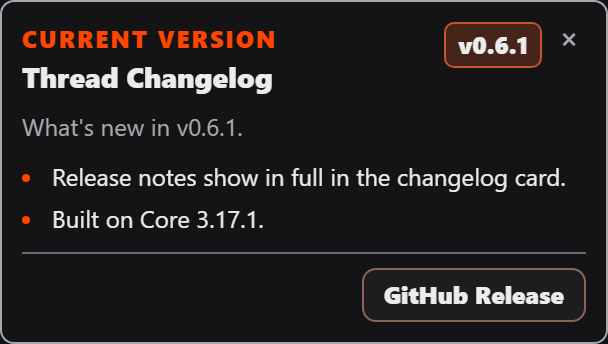
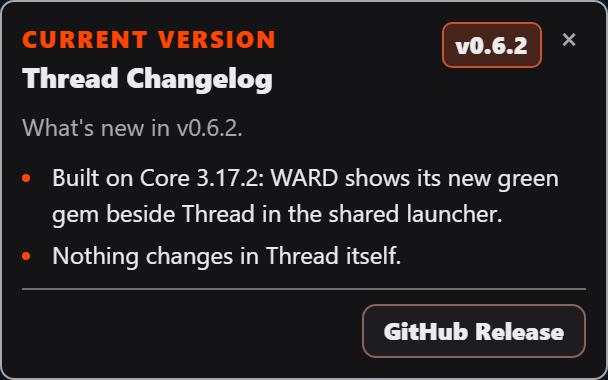
Thread 0.6.2: built on Core 3.17.2

diff --git a/thread.user.js b/thread.user.js
@@ -1,7 +1,7 @@
 // ==UserScript==
 // @name         Thread for Reddit
 // @namespace    expDARE.ExtraPotions.THREAD
-// @version      0.6.1
+// @version      0.6.2
 // @description  Your Reddit, refined. Reading, layout and local personal context for modern Reddit.
 // @author       expDARE
 // @license      PolyForm-Noncommercial-1.0.0
@@ -44,7 +44,7 @@ const CHARCOAL = Object.freeze({
 // Each product's badge colour, tuned to 4.5:1 on the panel in that mode.
 const PRODUCT_ACCENTS = Object.freeze({
   dropper: Object.freeze({light:'#862ff1',dark:'#a869f5'}),
-  ward: Object.freeze({light:'#8e5c05',dark:'#f6a313'}),
+  ward: Object.freeze({light:'#0d7246',dark:'#1fbf7a'}),
   thread: Object.freeze({light:'#bd3300',dark:'#ff4500'}),
 });
 function productPalette(product, mode) {
@@ -2502,7 +2502,7 @@ const ExpLauncherFlyout = (() => {
 // exp-core owns shared UI, launcher, diagnostics, update, and coordination behavior.
 const ExtraPotionsCore = (() => {
   'use strict';
-  const version = '3.17.1';
+  const version = '3.17.2';
   const sourceVersion = version; // Backward-compatible alias for Core's own foundation version.
   const SUPPORT_URL = 'https://ko-fi.com/expdare';
   const protocol = 'exp-core-coordination-v1';
@@ -5324,7 +5324,7 @@ const ExtraPotionsCore = (() => {
   return api;
 })();
 
-const RC={VERSION:"0.6.1",NOTES:["Release notes show in full in the changelog card.","Built on Core 3.17.1."],GEM:"<svg xmlns=\"http://www.w3.org/2000/svg\" viewBox=\"0 0 128 128\" role=\"img\" aria-label=\"Thread orange Asscher gem\"><polygon points=\"35.00,14.00 93.00,14.00 77.34,41.00 50.66,41.00\" fill=\"#ffd0a3\"/><polygon points=\"50.66,41.00 77.34,41.00 64.00,64.00\" fill=\"#ff7636\"/><polygon points=\"93.00,14.00 114.00,35.00 87.00,50.66 77.34,41.00\" fill=\"#ff8d4b\"/><polygon points=\"77.34,41.00 87.00,50.66 64.00,64.00\" fill=\"#ff4500\"/><polygon points=\"114.00,35.00 114.00,93.00 87.00,77.34 87.00,50.66\" fill=\"#ff7636\"/><polygon points=\"87.00,50.66 87.00,77.34 64.00,64.00\" fill=\"#c6350d\"/><polygon points=\"114.00,93.00 93.00,114.00 77.34,87.00 87.00,77.34\" fill=\"#ff4500\"/><polygon points=\"87.00,77.34 77.34,87.00 64.00,64.00\" fill=\"#a82d0d\"/><polygon points=\"93.00,114.00 35.00,114.00 50.66,87.00 77.34,87.00\" fill=\"#c6350d\"/><polygon points=\"77.34,87.00 50.66,87.00 64.00,64.00\" fill=\"#dd4814\"/><polygon points=\"35.00,114.00 14.00,93.00 41.00,77.34 50.66,87.00\" fill=\"#a82d0d\"/><polygon points=\"50.66,87.00 41.00,77.34 64.00,64.00\" fill=\"#ffb073\"/><polygon points=\"14.00,93.00 14.00,35.00 41.00,50.66 41.00,77.34\" fill=\"#dd4814\"/><polygon points=\"41.00,77.34 41.00,50.66 64.00,64.00\" fill=\"#ffd0a3\"/><polygon points=\"14.00,35.00 35.00,14.00 50.66,41.00 41.00,50.66\" fill=\"#ffb073\"/><polygon points=\"41.00,50.66 50.66,41.00 64.00,64.00\" fill=\"#ff8d4b\"/></svg>",CSS:"/* All page rules are companion-owned or opt-in attributes on exact native nodes. */\n[data-rc-owned]{--rc-bg:var(--color-neutral-background,#fff);--rc-surface:var(--color-neutral-background-weak,#f4f6f7);--rc-text:var(--color-neutral-content-strong,#182126);--rc-muted:var(--color-neutral-content,#4e606a);--rc-line:#71828c;--rc-blue:#174c99;color:var(--rc-text);background:var(--rc-bg);font:400 var(--rc-ui-font,12px)/1.5 \"Segoe UI\",system-ui,sans-serif;box-sizing:border-box;letter-spacing:normal;overflow-wrap:anywhere;color-scheme:light dark}\n@media(prefers-color-scheme:dark){[data-rc-owned]{--rc-bg:var(--color-neutral-background,#0e1113);--rc-surface:var(--color-neutral-background-weak,#181c1f);--rc-text:var(--color-neutral-content-strong,#edf1f3);--rc-muted:var(--color-neutral-content,#b4c1c8);--rc-blue:#90baff}}\n[data-rc-owned] *{box-sizing:border-box}\n[data-rc-owned] :is(button,input,select,textarea){font:inherit;max-width:100%;min-width:0;margin:0;color:inherit;background:var(--rc-surface);border:1px solid var(--rc-line);border-radius:6px;padding:5px 8px;min-height:32px;letter-spacing:normal}\n[data-rc-owned] button{cursor:pointer}\n[data-rc-owned] button:disabled{opacity:.6;cursor:default}\n[data-rc-owned] :is(button,a,input,select,textarea,summary):focus-visible,[data-rc-selected]{outline:2px solid var(--rc-blue,#1768b5)!important;outline-offset:2px}\n[data-rc-owned] ::selection{background:#203c61;color:#edf1f3}\n[data-rc-owned] a{color:var(--rc-blue);text-decoration:underline;text-underline-offset:2px}\n.rc-tools{position:relative;z-index:1;display:flex;gap:4px;flex-wrap:wrap;align-items:center;padding:5px 0;border-block:1px solid var(--rc-line);margin:5px 0}\n.rc-tools small{color:var(--rc-muted)}\n[data-rc-treatment=\"dim\"]>:not([data-rc-owned]){opacity:.45}\n[data-rc-treatment=\"blur\"]>:not([data-rc-owned]){filter:blur(6px);pointer-events:none;user-select:none}\n[data-rc-treatment=\"hide\"]>:not([data-rc-owned]){display:none!important}\n[data-rc-collapsed]>:not([data-rc-owned]){display:none!important}\n[data-rc-read] [slot=\"comment\"]{opacity:.78}\n[data-rc-post-read-hidden]{display:none!important}\n[data-rc-post-read]:not([data-rc-post-read-hidden])>[slot=\"title\"]{opacity:.75}\n[data-rc-reading-font] :is([slot=\"title\"],[slot=\"comment\"],[slot=\"text-body\"]){font-family:var(--rc-reading-font)!important}\n[data-rc-reading-line] :is([slot=\"comment\"],[slot=\"text-body\"]){line-height:var(--rc-line-height)!important}\n[data-rc-reading-gap] :is([slot=\"comment\"],[slot=\"text-body\"]) p{margin-block:var(--rc-paragraph-gap)!important}\n[data-rc-search-match] [slot=\"comment\"]{outline:2px solid var(--rc-blue,#174c99);outline-offset:2px}\n.rc-reading-controls{display:grid;gap:8px;margin-block:8px}\n.rc-library-entry{border-bottom:1px solid var(--rc-line);padding-block:12px}\n.rc-library-entry button{margin:4px 4px 0 0}\n.rc-popover :is(input,textarea,select){width:100%}\n.rc-popover[data-rc-owned] :is(input,select,button){min-height:44px}\n.rc-popover.rc-reading-panel{left:50%;translate:-50% 0;z-index:2147483647}\n.rc-reading-panel :is(input,textarea)::placeholder{color:var(--rc-muted);opacity:1}\n[data-rc-density=\"compact\"]{padding-block:8px!important}\n[data-rc-density=\"mini\"]{padding-block:5px!important}\n[data-rc-font]{font-size:var(--rc-content-font,14px)!important}\n[data-rc-font] :is([slot=\"comment\"],[slot=\"text-body\"]){font-size:var(--rc-content-font,14px)!important}\n[data-rc-negative] [slot=\"comment\"]{opacity:.55}\n/* At most four columns, each at least 300px: four on a wide desktop, two on a laptop or tablet, one on a phone. */\n[data-rc-view-container=\"grid\"]{position:relative;display:grid!important;grid-template-columns:repeat(auto-fit,minmax(min(100%,max(280px,calc((100% - 36px) / 4))),1fr));grid-auto-rows:4px;gap:0 12px;align-items:start}\n[data-rc-view-container=\"grid\"]>[data-rc-view-wrapper]{grid-row-end:span var(--rc-grid-span,60)}\n[data-rc-view-container=\"grid\"]>[data-rc-view-aux]{position:absolute!important;inset:auto 0 0}\n[data-rc-view-container=\"grid\"] [data-rc-view=\"grid\"]{margin-block:0!important}\n[data-rc-view-container=\"grid\"]>hr{display:none!important}\n[data-rc-view-wrapper]{min-width:0;max-width:100%}\n[data-rc-view=\"cards\"],[data-rc-view=\"grid\"]{display:block!important;border:1px solid var(--color-neutral-border,#71828c)!important;border-radius:8px!important;padding:14px!important;margin-block:10px!important;min-width:0;max-width:100%;overflow-wrap:anywhere}\n[data-rc-view=\"compact\"]{display:block!important;padding:4px 6px!important;margin-block:0!important;border-bottom:1px solid var(--color-neutral-border,#71828c)!important}\n/* Native compact ads keep their own inner column; the frame adds no second inset. */\nshreddit-ad-post[data-rc-view=\"compact\"]{padding-inline:0!important}\n[data-rc-view=\"compact\"] [slot=\"title\"]{font-size:16px;line-height:1.25;margin-block:2px}\n[data-rc-view=\"compact\"] [slot=\"text-body\"]{line-height:1.4;margin-block:3px;max-height:2.8em;overflow:hidden}[data-rc-view=\"compact\"] [slot=\"text-body\"] .feed-card-text-preview{line-height:inherit!important;-webkit-line-clamp:2!important;line-clamp:2}\n[data-rc-view=\"compact\"] .rc-tools{padding:0;border:0;margin:3px 0}\n[data-rc-compact-flat]{display:flow-root!important}\n.rc-compact-actions{min-width:0;max-width:100%}\n.rc-compact-actions summary{font:inherit;color:inherit;background:var(--rc-surface);border:1px solid var(--rc-line);border-radius:6px;padding:5px 8px;min-height:32px;max-width:100%;letter-spacing:normal;cursor:pointer;width:fit-content}\n.rc-action-items{display:flex;flex-wrap:wrap;gap:4px;padding-block:4px}\n.rc-tools[data-rc-feed-actions]{display:inline-flex;order:-1!important;flex:0 1 auto;align-self:flex-start;vertical-align:middle;max-width:100%;padding:0;border:0;margin:0 4px 0 0}\n[data-rc-header-row]{display:flex;align-items:center;gap:4px;min-width:0;position:relative;z-index:1}\n.rc-tools[data-rc-header-actions],[data-rc-compact-flat]>.rc-tools[data-rc-header-actions]{display:flex;flex:0 0 auto;width:fit-content;order:initial!important;align-self:center;margin:0 0 0 auto!important;padding:0!important;border:0!important;pointer-events:auto}\n.rc-tools[data-rc-header-actions],.rc-tools[data-rc-header-actions]>details{background:transparent!important}\n.rc-tools[data-rc-header-actions]>details{display:block;padding:0!important;margin:0!important;border:0!important;border-radius:0}\n.rc-tools[data-rc-header-actions] summary{display:flex;align-items:center;justify-content:center;list-style:none;width:var(--rc-native-action-size,32px);min-width:var(--rc-native-action-size,32px);height:var(--rc-native-action-size,32px);min-height:0!important;margin:0!important;padding:0;border:0;background:var(--rc-native-action-bg,transparent);color:inherit;border-radius:8px;cursor:pointer}\n.rc-tools[data-rc-header-actions] summary svg{width:18px;height:18px;fill:none;stroke:currentColor;stroke-width:1.6;stroke-linecap:round}\n.rc-sr{position:absolute;width:1px;height:1px;padding:0;margin:-1px;overflow:hidden;clip:rect(0 0 0 0);white-space:nowrap;border:0}\n.rc-tools[data-rc-header-actions] summary::-webkit-details-marker{display:none}\n.rc-tools[data-rc-header-actions] summary:focus-visible{outline-offset:-2px}\n.rc-tools[data-rc-header-actions] .rc-action-items{position:fixed;inset:auto;margin:0;padding:4px;z-index:2147483645;max-height:calc(100dvh - 24px);overflow:auto;box-sizing:border-box;background:var(--rc-bg);color:var(--rc-text);border:1px solid var(--color-neutral-border-weak,var(--rc-line));border-radius:8px;box-shadow:0 4px 8px #0000001a,0 6px 12px #00000040;font:400 var(--rc-ui-font,12px)/1.5 \"Segoe UI\",system-ui,sans-serif}\n.rc-tools[data-rc-header-actions] .rc-action-items:popover-open{display:flex;flex-direction:column;flex-wrap:nowrap;gap:0}\n/* Native menu rows: full-width, left-aligned, tinted only on hover or press. */\n.rc-tools[data-rc-header-actions] .rc-action-items :is(button,a){display:flex;align-items:center;justify-content:flex-start;width:100%;min-height:40px;padding:8px 12px;border:0;border-radius:5px;background:transparent;color:inherit;text-align:start;text-decoration:none;font-size:14px;line-height:20px}\n.rc-tools[data-rc-header-actions] .rc-action-items :is(button,a):is(:hover,:active){background:var(--color-neutral-background-hover,var(--rc-surface))}\n.rc-tools[data-rc-header-actions] .rc-action-items small{display:block;padding:6px 12px 2px;font-size:12px}\n[data-rc-view=\"compact\"][data-rc-compact-preview]:not([data-rc-compact-media-open])>[slot=\"post-media-container\"]:not([hidden]){display:none!important}\n/* Reddit's overflow menu opens from the credit bar; keep it above the preview and footer icon, which sit above the card link. */\n[data-rc-view=\"compact\"]>[slot=\"credit-bar\"]{position:relative;z-index:2}\n.rc-compact-preview{position:relative;z-index:1;display:block;width:104px;height:78px;padding:0;overflow:hidden;cursor:pointer;border:1px solid var(--rc-line);border-radius:6px}\n.rc-compact-preview img{width:100%;height:100%;object-fit:cover}\n.rc-compact-preview>span{display:none}\n[data-rc-compact-flat]>.rc-compact-preview,[data-rc-compact-flat]>[slot=\"thumbnail\"]{float:left;margin:0 8px 4px 0}\n[data-rc-compact-flat]:where(:not([data-rc-treatment=\"hide\"]):not([data-rc-collapsed]))>[slot=\"thumbnail\"]:not([hidden]):not(.hidden){display:block!important;width:104px;max-height:78px;overflow:hidden}\n[data-rc-compact-flat][data-rc-compact-has-thumb]>:is([slot=\"credit-bar\"],[slot=\"title\"],[slot=\"text-body\"]){margin-left:112px!important}\n[data-rc-compact-flat]>[slot=\"credit-bar\"]{font-size:12px;line-height:16px;margin-block:0}\n[data-rc-compact-flat]>[slot=\"title\"]{display:-webkit-box;-webkit-box-orient:vertical;-webkit-line-clamp:2;overflow:hidden}\n[data-rc-compact-flat]>:is([slot=\"post-flair\"],[slot=\"awards\"]){display:none}\n[data-rc-compact-flat]>.rc-tools{display:inline-flex;vertical-align:middle}\n[data-rc-compact-native-layout]>[slot=\"thumbnail\"]>:first-child,[data-rc-compact-native-layout]>[slot=\"thumbnail\"] [slot=\"thumbnail\"]{width:80px!important;max-width:80px!important;height:60px!important;max-height:60px!important;overflow:hidden}\n[data-rc-compact-native-layout]>[slot=\"thumbnail\"] :is(img,video){width:100%;height:100%;object-fit:cover}\n[data-rc-compact-flat]>[slot=\"post-media-container\"]{clear:both}\n@media(pointer:coarse){.rc-compact-actions summary,[data-rc-view=\"compact\"] .rc-tools button{min-height:44px}}\n@media(pointer:coarse){.rc-tools[data-rc-feed-actions] button{min-height:44px}}\n/* Keep native thumbnails compact; only full media owns uncapped height. Native aspect frames already letterbox the whole image. */\n[data-rc-view]:where(:not([data-rc-treatment=\"hide\"]):not([data-rc-collapsed])) [slot=\"post-media-container\"]:not([hidden]):not(.hidden):not(:has(gallery-carousel,faceplate-carousel)):where(:not(:has([data-aspect-ratio-container]))){display:block!important;width:100%!important;max-width:100%!important;height:auto!important;max-height:none!important;overflow:visible}\n[data-rc-view] [slot=\"expando-content\"]{width:100%;max-width:100%;max-height:none;overflow:visible}\n[data-rc-view] :is([slot=\"post-media-container\"],[slot=\"expando-content\"]) :is(img,video):not(:is(gallery-carousel,faceplate-carousel) *):where(:not([data-aspect-ratio-container] *)){display:block;max-width:100%!important;max-height:none!important;height:auto!important;object-fit:contain}\n[data-rc-view] :is([slot=\"post-media-container\"],[slot=\"expando-content\"]) :is(iframe,object,embed){max-width:100%!important;box-sizing:border-box}\n[data-rc-view] [data-rc-owned]{order:10}\n[data-rc-select]{user-select:text!important}\n[data-rc-expand] [slot=\"text-body\"]{max-height:none!important;-webkit-line-clamp:unset!important}\n[data-rc-hover]:hover{background:var(--color-neutral-background-hover,#e8edef)}\n[data-rc-hide-author] [slot=\"authorName\"],[data-rc-hide-flair] [slot=\"post-flair\"],[data-rc-hide-awards] [slot=\"awards\"],[data-rc-hide-save] [data-testid=\"save-button\"],[data-rc-profile-simple] :is([data-testid=\"profile-trophy-case\"],[data-testid=\"profile-achievements\"]){display:none!important}\n[data-rc-awards-collapsed] [slot=\"awards\"]{max-height:24px;overflow:auto}\n[data-rc-sidebar-hidden],[data-rc-secondary-hidden]{display:none!important}\n[data-rc-layout]{width:min(100%,var(--rc-width,800px))!important;max-width:100%!important;margin-inline:auto!important;translate:var(--rc-offset,0px) 0}\n.rc-pagebar{display:flex;align-items:center;gap:5px;flex-wrap:wrap;padding:4px 0;margin:4px 0;position:sticky;top:var(--rc-sticky-top,0px);z-index:10;border-bottom:1px solid var(--rc-line)}\n.rc-pagebar[data-rc-page-type=\"feed\"]{position:static;z-index:auto}\n.rc-pagebar[data-rc-page-type=\"comments\"]{flex-wrap:nowrap;max-width:100%;overflow-x:auto;scrollbar-width:thin;scroll-padding-inline:4px}\n.rc-pagebar[data-rc-page-type=\"comments\"]>*{flex:0 0 auto;margin:0}\n.rc-pagebar:empty{display:none}\n.rc-pagebar [data-rc-icon]{display:inline-flex;align-items:center;justify-content:center;width:32px;padding:0!important}\n.rc-pagebar .rc-icon{width:16px;height:16px;fill:none;stroke:currentColor;stroke-width:2;stroke-linecap:round;stroke-linejoin:round}\n.rc-pagebar [data-rc-icon=\"up\"] .rc-icon{rotate:180deg}\n.rc-pagebar[data-rc-inline][data-rc-page-type=\"comments\"]{flex:0 1 auto;flex-wrap:wrap;overflow:visible}\n.rc-pagebar [data-rc-bar-menu]{margin:0!important}\n.rc-pagebar [data-rc-bar-menu] summary{width:32px;min-width:32px;height:32px}\n/* Inside Reddit's sort row the controls read as native plain buttons: no strip, no box, same 32px rhythm. */\n[data-rc-sort-row]{display:flex;flex-wrap:wrap;align-items:center;column-gap:4px}\n.rc-pagebar[data-rc-inline]{flex:1 1 auto;position:static;z-index:auto;margin:0;padding:0;border:0;gap:2px;background:transparent;color:var(--color-neutral-content-weak,var(--rc-muted));font-size:12px;font-weight:600}\n.rc-pagebar[data-rc-inline] :is(button,select,a){height:32px;min-height:0;margin:0;padding:0 10px;border:0;border-radius:8px;background:transparent;color:inherit;font-weight:inherit;line-height:32px;text-decoration:none}\n.rc-pagebar[data-rc-inline] a{display:inline-block}\n.rc-pagebar[data-rc-inline] :is(button,select,a):hover{background:var(--color-neutral-background-hover,var(--rc-surface))}\n.rc-pagebar label{display:flex;align-items:center;gap:6px}\n.rc-back-top{position:fixed;right:16px;bottom:80px;z-index:20;border:1px solid var(--rc-line);border-radius:6px;padding:7px 10px;min-height:34px;cursor:pointer}\n.rc-back-top[hidden]{display:none}\n/* Right rail handle: mirrors Reddit's left navigation collapse control; the arrow points the way the rail will move. */\n[data-rc-fill]{grid-template-columns:minmax(0,1fr)!important;box-sizing:border-box!important;padding-inline-end:40px!important}\n.rc-rail-handle{position:fixed;z-index:20;display:grid;place-items:center;width:32px;height:32px;padding:0;color:var(--rc-text);background:var(--rc-bg);border:1px solid var(--color-neutral-border-weak,var(--rc-line));border-radius:8px;overflow:visible;cursor:pointer;touch-action:manipulation}\n.rc-rail-handle::before{content:\"\";position:absolute;inset:-6px}\n/* The rail edge line, like the line under Reddit's left navigation button: from the header down, broken where the handle sits. */\n.rc-rail-handle::after{content:\"\";position:absolute;z-index:-1;top:-17px;left:calc(50% - .5px);width:1px;height:100vh;pointer-events:none;background:linear-gradient(var(--color-neutral-border,var(--rc-line)) 0 16px,transparent 16px 48px,var(--color-neutral-border,var(--rc-line)) 48px)}\n.rc-rail-handle:hover{background:var(--rc-surface)}\n.rc-rail-handle:focus-visible{outline:2px solid var(--rc-blue);outline-offset:2px}\n.rc-rail-handle .rc-icon{width:16px;height:16px;fill:none;stroke:currentColor;stroke-width:2;stroke-linecap:round;stroke-linejoin:round;rotate:90deg}\n.rc-rail-handle[data-rc-open=\"1\"] .rc-icon{rotate:-90deg}\n.rc-popover{position:fixed;z-index:2147483646;inset:12px auto auto 12px;max-width:calc(100vw - 24px);width:350px;max-height:calc(100dvh - 24px);overflow:auto;padding:14px;border:1px solid var(--color-neutral-border-weak,var(--rc-line));border-radius:8px;box-shadow:0 4px 8px #0000001a,0 6px 12px #00000040}\n.rc-popover[data-rc-anchored]{position:absolute;inset:auto;translate:none;max-height:none}\n.rc-popover label{display:grid;gap:4px;margin-block:8px}\n.rc-popover h2{font-size:14px;font-weight:600;margin:0 0 8px;padding-inline-end:64px;min-height:24px}\n.rc-popover>h2+button{position:absolute;top:8px;right:8px;height:32px;min-height:32px!important;padding:0 10px;border:0;border-radius:8px;background:transparent;color:inherit;font-size:12px;font-weight:600}\n.rc-popover>h2+button:hover{background:var(--color-neutral-background-hover,var(--rc-surface))}\n.rc-popover p{margin:8px 0;white-space:pre-wrap}\n.rc-media{position:fixed;inset:0;padding:12px;z-index:2147483647;display:flex;align-items:center;justify-content:center;background:#000c;color:#edf1f3}\n.rc-media-box{max-width:calc(100vw - 24px);max-height:calc(100dvh - 24px);overflow:auto;background:#181c1f;border-radius:8px;padding:12px}\n.rc-media-stage{overflow:auto;max-height:calc(100dvh - 140px);max-width:100%}\n.rc-media img{display:block;max-width:100%;max-height:calc(100dvh - 150px);object-fit:contain}\n.rc-media-toolbar{display:flex;flex-wrap:wrap;gap:5px;margin-bottom:8px}\n.rc-media button{background:#20272b;color:#edf1f3}\n.rc-error{color:#a51e22}\n@media(prefers-color-scheme:dark){.rc-error{color:#ffaaa6}}\n@media(max-width:600px){[data-rc-layout]{translate:0 0}.rc-pagebar{margin:4px 0}.rc-tools{gap:3px}}\n@media(pointer:coarse){[data-rc-owned] :is(button,input,select){min-height:36px}.rc-tools[data-rc-header-actions] .rc-action-items :is(button,a){min-height:44px}}\n/* Subtle motion: one short exponential ease-out per change, interruptible, and absent under reduced motion. */\n@media(prefers-reduced-motion:no-preference){\n.rc-rail-handle .rc-icon{transition:rotate .18s cubic-bezier(.16,1,.3,1)}\n.rc-tools[data-rc-header-actions] .rc-action-items{transition:opacity .14s cubic-bezier(.16,1,.3,1),translate .14s cubic-bezier(.16,1,.3,1)}\n@starting-style{.rc-tools[data-rc-header-actions] .rc-action-items:popover-open{opacity:0;translate:0 -4px}}\n[data-rc-compact-media-open]>[slot=\"post-media-container\"]{transition:opacity .18s cubic-bezier(.16,1,.3,1),translate .18s cubic-bezier(.16,1,.3,1)}\n@starting-style{[data-rc-compact-media-open]>[slot=\"post-media-container\"]{opacity:0;translate:0 -6px}}\n}\n@media(prefers-reduced-motion:reduce){[data-rc-owned],[data-rc-owned] *{scroll-behavior:auto!important;transition:none!important;animation:none!important}}\n\n.rc-pagebar[data-rc-inline][data-rc-page-type=\"comments\"] select{field-sizing:content}\n\n[data-rc-new-body]{box-shadow:inset 2px 0 0 var(--rc-blue,#1768b5);padding-inline-start:8px}\n.rc-person{display:inline-block;flex:0 0 auto;margin-inline-start:6px;padding:0 6px;border-radius:4px;background:var(--color-neutral-background-hover,var(--rc-surface));color:var(--color-neutral-content-weak,inherit);font-size:12px;font-weight:400;line-height:18px;white-space:nowrap;max-width:24ch;overflow:hidden;text-overflow:ellipsis;vertical-align:middle}\n.rc-float-nav{position:fixed;right:16px;bottom:122px;z-index:20;display:flex;flex-direction:column;gap:6px}\n.rc-float-nav[data-rc-lone]{bottom:80px}\n.rc-float-nav[hidden]{display:none}\n.rc-float-nav button{display:flex;align-items:center;justify-content:center;width:40px;height:34px;padding:0;border:1px solid var(--rc-line);border-radius:6px;background:var(--rc-bg);color:var(--rc-text);cursor:pointer}\n.rc-float-nav .rc-icon{width:16px;height:16px;fill:none;stroke:currentColor;stroke-width:2;stroke-linecap:round;stroke-linejoin:round}\n.rc-float-nav [data-rc-icon=\"up\"] .rc-icon{rotate:180deg}\n.rc-media video{display:block;max-width:100%;max-height:calc(100dvh - 150px);background:#000}\n.rc-media iframe{display:block;border:0;width:min(960px,calc(100vw - 48px));aspect-ratio:16/9;max-height:calc(100dvh - 150px);background:#000}\n.rc-media button[hidden]{display:none}\n.rc-media button:disabled{opacity:.45}\n"};
+const RC={VERSION:"0.6.2",NOTES:["Built on Core 3.17.2: WARD shows its new green gem beside Thread in the shared launcher.","Nothing changes in Thread itself."],GEM:"<svg xmlns=\"http://www.w3.org/2000/svg\" viewBox=\"0 0 128 128\" role=\"img\" aria-label=\"Thread orange Asscher gem\"><polygon points=\"35.00,14.00 93.00,14.00 77.34,41.00 50.66,41.00\" fill=\"#ffd0a3\"/><polygon points=\"50.66,41.00 77.34,41.00 64.00,64.00\" fill=\"#ff7636\"/><polygon points=\"93.00,14.00 114.00,35.00 87.00,50.66 77.34,41.00\" fill=\"#ff8d4b\"/><polygon points=\"77.34,41.00 87.00,50.66 64.00,64.00\" fill=\"#ff4500\"/><polygon points=\"114.00,35.00 114.00,93.00 87.00,77.34 87.00,50.66\" fill=\"#ff7636\"/><polygon points=\"87.00,50.66 87.00,77.34 64.00,64.00\" fill=\"#c6350d\"/><polygon points=\"114.00,93.00 93.00,114.00 77.34,87.00 87.00,77.34\" fill=\"#ff4500\"/><polygon points=\"87.00,77.34 77.34,87.00 64.00,64.00\" fill=\"#a82d0d\"/><polygon points=\"93.00,114.00 35.00,114.00 50.66,87.00 77.34,87.00\" fill=\"#c6350d\"/><polygon points=\"77.34,87.00 50.66,87.00 64.00,64.00\" fill=\"#dd4814\"/><polygon points=\"35.00,114.00 14.00,93.00 41.00,77.34 50.66,87.00\" fill=\"#a82d0d\"/><polygon points=\"50.66,87.00 41.00,77.34 64.00,64.00\" fill=\"#ffb073\"/><polygon points=\"14.00,93.00 14.00,35.00 41.00,50.66 41.00,77.34\" fill=\"#dd4814\"/><polygon points=\"41.00,77.34 41.00,50.66 64.00,64.00\" fill=\"#ffd0a3\"/><polygon points=\"14.00,35.00 35.00,14.00 50.66,41.00 41.00,50.66\" fill=\"#ffb073\"/><polygon points=\"41.00,50.66 50.66,41.00 64.00,64.00\" fill=\"#ff8d4b\"/></svg>",CSS:"/* All page rules are companion-owned or opt-in attributes on exact native nodes. */\n[data-rc-owned]{--rc-bg:var(--color-neutral-background,#fff);--rc-surface:var(--color-neutral-background-weak,#f4f6f7);--rc-text:var(--color-neutral-content-strong,#182126);--rc-muted:var(--color-neutral-content,#4e606a);--rc-line:#71828c;--rc-blue:#174c99;color:var(--rc-text);background:var(--rc-bg);font:400 var(--rc-ui-font,12px)/1.5 \"Segoe UI\",system-ui,sans-serif;box-sizing:border-box;letter-spacing:normal;overflow-wrap:anywhere;color-scheme:light dark}\n@media(prefers-color-scheme:dark){[data-rc-owned]{--rc-bg:var(--color-neutral-background,#0e1113);--rc-surface:var(--color-neutral-background-weak,#181c1f);--rc-text:var(--color-neutral-content-strong,#edf1f3);--rc-muted:var(--color-neutral-content,#b4c1c8);--rc-blue:#90baff}}\n[data-rc-owned] *{box-sizing:border-box}\n[data-rc-owned] :is(button,input,select,textarea){font:inherit;max-width:100%;min-width:0;margin:0;color:inherit;background:var(--rc-surface);border:1px solid var(--rc-line);border-radius:6px;padding:5px 8px;min-height:32px;letter-spacing:normal}\n[data-rc-owned] button{cursor:pointer}\n[data-rc-owned] button:disabled{opacity:.6;cursor:default}\n[data-rc-owned] :is(button,a,input,select,textarea,summary):focus-visible,[data-rc-selected]{outline:2px solid var(--rc-blue,#1768b5)!important;outline-offset:2px}\n[data-rc-owned] ::selection{background:#203c61;color:#edf1f3}\n[data-rc-owned] a{color:var(--rc-blue);text-decoration:underline;text-underline-offset:2px}\n.rc-tools{position:relative;z-index:1;display:flex;gap:4px;flex-wrap:wrap;align-items:center;padding:5px 0;border-block:1px solid var(--rc-line);margin:5px 0}\n.rc-tools small{color:var(--rc-muted)}\n[data-rc-treatment=\"dim\"]>:not([data-rc-owned]){opacity:.45}\n[data-rc-treatment=\"blur\"]>:not([data-rc-owned]){filter:blur(6px);pointer-events:none;user-select:none}\n[data-rc-treatment=\"hide\"]>:not([data-rc-owned]){display:none!important}\n[data-rc-collapsed]>:not([data-rc-owned]){display:none!important}\n[data-rc-read] [slot=\"comment\"]{opacity:.78}\n[data-rc-post-read-hidden]{display:none!important}\n[data-rc-post-read]:not([data-rc-post-read-hidden])>[slot=\"title\"]{opacity:.75}\n[data-rc-reading-font] :is([slot=\"title\"],[slot=\"comment\"],[slot=\"text-body\"]){font-family:var(--rc-reading-font)!important}\n[data-rc-reading-line] :is([slot=\"comment\"],[slot=\"text-body\"]){line-height:var(--rc-line-height)!important}\n[data-rc-reading-gap] :is([slot=\"comment\"],[slot=\"text-body\"]) p{margin-block:var(--rc-paragraph-gap)!important}\n[data-rc-search-match] [slot=\"comment\"]{outline:2px solid var(--rc-blue,#174c99);outline-offset:2px}\n.rc-reading-controls{display:grid;gap:8px;margin-block:8px}\n.rc-library-entry{border-bottom:1px solid var(--rc-line);padding-block:12px}\n.rc-library-entry button{margin:4px 4px 0 0}\n.rc-popover :is(input,textarea,select){width:100%}\n.rc-popover[data-rc-owned] :is(input,select,button){min-height:44px}\n.rc-popover.rc-reading-panel{left:50%;translate:-50% 0;z-index:2147483647}\n.rc-reading-panel :is(input,textarea)::placeholder{color:var(--rc-muted);opacity:1}\n[data-rc-density=\"compact\"]{padding-block:8px!important}\n[data-rc-density=\"mini\"]{padding-block:5px!important}\n[data-rc-font]{font-size:var(--rc-content-font,14px)!important}\n[data-rc-font] :is([slot=\"comment\"],[slot=\"text-body\"]){font-size:var(--rc-content-font,14px)!important}\n[data-rc-negative] [slot=\"comment\"]{opacity:.55}\n/* At most four columns, each at least 300px: four on a wide desktop, two on a laptop or tablet, one on a phone. */\n[data-rc-view-container=\"grid\"]{position:relative;display:grid!important;grid-template-columns:repeat(auto-fit,minmax(min(100%,max(280px,calc((100% - 36px) / 4))),1fr));grid-auto-rows:4px;gap:0 12px;align-items:start}\n[data-rc-view-container=\"grid\"]>[data-rc-view-wrapper]{grid-row-end:span var(--rc-grid-span,60)}\n[data-rc-view-container=\"grid\"]>[data-rc-view-aux]{position:absolute!important;inset:auto 0 0}\n[data-rc-view-container=\"grid\"] [data-rc-view=\"grid\"]{margin-block:0!important}\n[data-rc-view-container=\"grid\"]>hr{display:none!important}\n[data-rc-view-wrapper]{min-width:0;max-width:100%}\n[data-rc-view=\"cards\"],[data-rc-view=\"grid\"]{display:block!important;border:1px solid var(--color-neutral-border,#71828c)!important;border-radius:8px!important;padding:14px!important;margin-block:10px!important;min-width:0;max-width:100%;overflow-wrap:anywhere}\n[data-rc-view=\"compact\"]{display:block!important;padding:4px 6px!important;margin-block:0!important;border-bottom:1px solid var(--color-neutral-border,#71828c)!important}\n/* Native compact ads keep their own inner column; the frame adds no second inset. */\nshreddit-ad-post[data-rc-view=\"compact\"]{padding-inline:0!important}\n[data-rc-view=\"compact\"] [slot=\"title\"]{font-size:16px;line-height:1.25;margin-block:2px}\n[data-rc-view=\"compact\"] [slot=\"text-body\"]{line-height:1.4;margin-block:3px;max-height:2.8em;overflow:hidden}[data-rc-view=\"compact\"] [slot=\"text-body\"] .feed-card-text-preview{line-height:inherit!important;-webkit-line-clamp:2!important;line-clamp:2}\n[data-rc-view=\"compact\"] .rc-tools{padding:0;border:0;margin:3px 0}\n[data-rc-compact-flat]{display:flow-root!important}\n.rc-compact-actions{min-width:0;max-width:100%}\n.rc-compact-actions summary{font:inherit;color:inherit;background:var(--rc-surface);border:1px solid var(--rc-line);border-radius:6px;padding:5px 8px;min-height:32px;max-width:100%;letter-spacing:normal;cursor:pointer;width:fit-content}\n.rc-action-items{display:flex;flex-wrap:wrap;gap:4px;padding-block:4px}\n.rc-tools[data-rc-feed-actions]{display:inline-flex;order:-1!important;flex:0 1 auto;align-self:flex-start;vertical-align:middle;max-width:100%;padding:0;border:0;margin:0 4px 0 0}\n[data-rc-header-row]{display:flex;align-items:center;gap:4px;min-width:0;position:relative;z-index:1}\n.rc-tools[data-rc-header-actions],[data-rc-compact-flat]>.rc-tools[data-rc-header-actions]{display:flex;flex:0 0 auto;width:fit-content;order:initial!important;align-self:center;margin:0 0 0 auto!important;padding:0!important;border:0!important;pointer-events:auto}\n.rc-tools[data-rc-header-actions],.rc-tools[data-rc-header-actions]>details{background:transparent!important}\n.rc-tools[data-rc-header-actions]>details{display:block;padding:0!important;margin:0!important;border:0!important;border-radius:0}\n.rc-tools[data-rc-header-actions] summary{display:flex;align-items:center;justify-content:center;list-style:none;width:var(--rc-native-action-size,32px);min-width:var(--rc-native-action-size,32px);height:var(--rc-native-action-size,32px);min-height:0!important;margin:0!important;padding:0;border:0;background:var(--rc-native-action-bg,transparent);color:inherit;border-radius:8px;cursor:pointer}\n.rc-tools[data-rc-header-actions] summary svg{width:18px;height:18px;fill:none;stroke:currentColor;stroke-width:1.6;stroke-linecap:round}\n.rc-sr{position:absolute;width:1px;height:1px;padding:0;margin:-1px;overflow:hidden;clip:rect(0 0 0 0);white-space:nowrap;border:0}\n.rc-tools[data-rc-header-actions] summary::-webkit-details-marker{display:none}\n.rc-tools[data-rc-header-actions] summary:focus-visible{outline-offset:-2px}\n.rc-tools[data-rc-header-actions] .rc-action-items{position:fixed;inset:auto;margin:0;padding:4px;z-index:2147483645;max-height:calc(100dvh - 24px);overflow:auto;box-sizing:border-box;background:var(--rc-bg);color:var(--rc-text);border:1px solid var(--color-neutral-border-weak,var(--rc-line));border-radius:8px;box-shadow:0 4px 8px #0000001a,0 6px 12px #00000040;font:400 var(--rc-ui-font,12px)/1.5 \"Segoe UI\",system-ui,sans-serif}\n.rc-tools[data-rc-header-actions] .rc-action-items:popover-open{display:flex;flex-direction:column;flex-wrap:nowrap;gap:0}\n/* Native menu rows: full-width, left-aligned, tinted only on hover or press. */\n.rc-tools[data-rc-header-actions] .rc-action-items :is(button,a){display:flex;align-items:center;justify-content:flex-start;width:100%;min-height:40px;padding:8px 12px;border:0;border-radius:5px;background:transparent;color:inherit;text-align:start;text-decoration:none;font-size:14px;line-height:20px}\n.rc-tools[data-rc-header-actions] .rc-action-items :is(button,a):is(:hover,:active){background:var(--color-neutral-background-hover,var(--rc-surface))}\n.rc-tools[data-rc-header-actions] .rc-action-items small{display:block;padding:6px 12px 2px;font-size:12px}\n[data-rc-view=\"compact\"][data-rc-compact-preview]:not([data-rc-compact-media-open])>[slot=\"post-media-container\"]:not([hidden]){display:none!important}\n/* Reddit's overflow menu opens from the credit bar; keep it above the preview and footer icon, which sit above the card link. */\n[data-rc-view=\"compact\"]>[slot=\"credit-bar\"]{position:relative;z-index:2}\n.rc-compact-preview{position:relative;z-index:1;display:block;width:104px;height:78px;padding:0;overflow:hidden;cursor:pointer;border:1px solid var(--rc-line);border-radius:6px}\n.rc-compact-preview img{width:100%;height:100%;object-fit:cover}\n.rc-compact-preview>span{display:none}\n[data-rc-compact-flat]>.rc-compact-preview,[data-rc-compact-flat]>[slot=\"thumbnail\"]{float:left;margin:0 8px 4px 0}\n[data-rc-compact-flat]:where(:not([data-rc-treatment=\"hide\"]):not([data-rc-collapsed]))>[slot=\"thumbnail\"]:not([hidden]):not(.hidden){display:block!important;width:104px;max-height:78px;overflow:hidden}\n[data-rc-compact-flat][data-rc-compact-has-thumb]>:is([slot=\"credit-bar\"],[slot=\"title\"],[slot=\"text-body\"]){margin-left:112px!important}\n[data-rc-compact-flat]>[slot=\"credit-bar\"]{font-size:12px;line-height:16px;margin-block:0}\n[data-rc-compact-flat]>[slot=\"title\"]{display:-webkit-box;-webkit-box-orient:vertical;-webkit-line-clamp:2;overflow:hidden}\n[data-rc-compact-flat]>:is([slot=\"post-flair\"],[slot=\"awards\"]){display:none}\n[data-rc-compact-flat]>.rc-tools{display:inline-flex;vertical-align:middle}\n[data-rc-compact-native-layout]>[slot=\"thumbnail\"]>:first-child,[data-rc-compact-native-layout]>[slot=\"thumbnail\"] [slot=\"thumbnail\"]{width:80px!important;max-width:80px!important;height:60px!important;max-height:60px!important;overflow:hidden}\n[data-rc-compact-native-layout]>[slot=\"thumbnail\"] :is(img,video){width:100%;height:100%;object-fit:cover}\n[data-rc-compact-flat]>[slot=\"post-media-container\"]{clear:both}\n@media(pointer:coarse){.rc-compact-actions summary,[data-rc-view=\"compact\"] .rc-tools button{min-height:44px}}\n@media(pointer:coarse){.rc-tools[data-rc-feed-actions] button{min-height:44px}}\n/* Keep native thumbnails compact; only full media owns uncapped height. Native aspect frames already letterbox the whole image. */\n[data-rc-view]:where(:not([data-rc-treatment=\"hide\"]):not([data-rc-collapsed])) [slot=\"post-media-container\"]:not([hidden]):not(.hidden):not(:has(gallery-carousel,faceplate-carousel)):where(:not(:has([data-aspect-ratio-container]))){display:block!important;width:100%!important;max-width:100%!important;height:auto!important;max-height:none!important;overflow:visible}\n[data-rc-view] [slot=\"expando-content\"]{width:100%;max-width:100%;max-height:none;overflow:visible}\n[data-rc-view] :is([slot=\"post-media-container\"],[slot=\"expando-content\"]) :is(img,video):not(:is(gallery-carousel,faceplate-carousel) *):where(:not([data-aspect-ratio-container] *)){display:block;max-width:100%!important;max-height:none!important;height:auto!important;object-fit:contain}\n[data-rc-view] :is([slot=\"post-media-container\"],[slot=\"expando-content\"]) :is(iframe,object,embed){max-width:100%!important;box-sizing:border-box}\n[data-rc-view] [data-rc-owned]{order:10}\n[data-rc-select]{user-select:text!important}\n[data-rc-expand] [slot=\"text-body\"]{max-height:none!important;-webkit-line-clamp:unset!important}\n[data-rc-hover]:hover{background:var(--color-neutral-background-hover,#e8edef)}\n[data-rc-hide-author] [slot=\"authorName\"],[data-rc-hide-flair] [slot=\"post-flair\"],[data-rc-hide-awards] [slot=\"awards\"],[data-rc-hide-save] [data-testid=\"save-button\"],[data-rc-profile-simple] :is([data-testid=\"profile-trophy-case\"],[data-testid=\"profile-achievements\"]){display:none!important}\n[data-rc-awards-collapsed] [slot=\"awards\"]{max-height:24px;overflow:auto}\n[data-rc-sidebar-hidden],[data-rc-secondary-hidden]{display:none!important}\n[data-rc-layout]{width:min(100%,var(--rc-width,800px))!important;max-width:100%!important;margin-inline:auto!important;translate:var(--rc-offset,0px) 0}\n.rc-pagebar{display:flex;align-items:center;gap:5px;flex-wrap:wrap;padding:4px 0;margin:4px 0;position:sticky;top:var(--rc-sticky-top,0px);z-index:10;border-bottom:1px solid var(--rc-line)}\n.rc-pagebar[data-rc-page-type=\"feed\"]{position:static;z-index:auto}\n.rc-pagebar[data-rc-page-type=\"comments\"]{flex-wrap:nowrap;max-width:100%;overflow-x:auto;scrollbar-width:thin;scroll-padding-inline:4px}\n.rc-pagebar[data-rc-page-type=\"comments\"]>*{flex:0 0 auto;margin:0}\n.rc-pagebar:empty{display:none}\n.rc-pagebar [data-rc-icon]{display:inline-flex;align-items:center;justify-content:center;width:32px;padding:0!important}\n.rc-pagebar .rc-icon{width:16px;height:16px;fill:none;stroke:currentColor;stroke-width:2;stroke-linecap:round;stroke-linejoin:round}\n.rc-pagebar [data-rc-icon=\"up\"] .rc-icon{rotate:180deg}\n.rc-pagebar[data-rc-inline][data-rc-page-type=\"comments\"]{flex:0 1 auto;flex-wrap:wrap;overflow:visible}\n.rc-pagebar [data-rc-bar-menu]{margin:0!important}\n.rc-pagebar [data-rc-bar-menu] summary{width:32px;min-width:32px;height:32px}\n/* Inside Reddit's sort row the controls read as native plain buttons: no strip, no box, same 32px rhythm. */\n[data-rc-sort-row]{display:flex;flex-wrap:wrap;align-items:center;column-gap:4px}\n.rc-pagebar[data-rc-inline]{flex:1 1 auto;position:static;z-index:auto;margin:0;padding:0;border:0;gap:2px;background:transparent;color:var(--color-neutral-content-weak,var(--rc-muted));font-size:12px;font-weight:600}\n.rc-pagebar[data-rc-inline] :is(button,select,a){height:32px;min-height:0;margin:0;padding:0 10px;border:0;border-radius:8px;background:transparent;color:inherit;font-weight:inherit;line-height:32px;text-decoration:none}\n.rc-pagebar[data-rc-inline] a{display:inline-block}\n.rc-pagebar[data-rc-inline] :is(button,select,a):hover{background:var(--color-neutral-background-hover,var(--rc-surface))}\n.rc-pagebar label{display:flex;align-items:center;gap:6px}\n.rc-back-top{position:fixed;right:16px;bottom:80px;z-index:20;border:1px solid var(--rc-line);border-radius:6px;padding:7px 10px;min-height:34px;cursor:pointer}\n.rc-back-top[hidden]{display:none}\n/* Right rail handle: mirrors Reddit's left navigation collapse control; the arrow points the way the rail will move. */\n[data-rc-fill]{grid-template-columns:minmax(0,1fr)!important;box-sizing:border-box!important;padding-inline-end:40px!important}\n.rc-rail-handle{position:fixed;z-index:20;display:grid;place-items:center;width:32px;height:32px;padding:0;color:var(--rc-text);background:var(--rc-bg);border:1px solid var(--color-neutral-border-weak,var(--rc-line));border-radius:8px;overflow:visible;cursor:pointer;touch-action:manipulation}\n.rc-rail-handle::before{content:\"\";position:absolute;inset:-6px}\n/* The rail edge line, like the line under Reddit's left navigation button: from the header down, broken where the handle sits. */\n.rc-rail-handle::after{content:\"\";position:absolute;z-index:-1;top:-17px;left:calc(50% - .5px);width:1px;height:100vh;pointer-events:none;background:linear-gradient(var(--color-neutral-border,var(--rc-line)) 0 16px,transparent 16px 48px,var(--color-neutral-border,var(--rc-line)) 48px)}\n.rc-rail-handle:hover{background:var(--rc-surface)}\n.rc-rail-handle:focus-visible{outline:2px solid var(--rc-blue);outline-offset:2px}\n.rc-rail-handle .rc-icon{width:16px;height:16px;fill:none;stroke:currentColor;stroke-width:2;stroke-linecap:round;stroke-linejoin:round;rotate:90deg}\n.rc-rail-handle[data-rc-open=\"1\"] .rc-icon{rotate:-90deg}\n.rc-popover{position:fixed;z-index:2147483646;inset:12px auto auto 12px;max-width:calc(100vw - 24px);width:350px;max-height:calc(100dvh - 24px);overflow:auto;padding:14px;border:1px solid var(--color-neutral-border-weak,var(--rc-line));border-radius:8px;box-shadow:0 4px 8px #0000001a,0 6px 12px #00000040}\n.rc-popover[data-rc-anchored]{position:absolute;inset:auto;translate:none;max-height:none}\n.rc-popover label{display:grid;gap:4px;margin-block:8px}\n.rc-popover h2{font-size:14px;font-weight:600;margin:0 0 8px;padding-inline-end:64px;min-height:24px}\n.rc-popover>h2+button{position:absolute;top:8px;right:8px;height:32px;min-height:32px!important;padding:0 10px;border:0;border-radius:8px;background:transparent;color:inherit;font-size:12px;font-weight:600}\n.rc-popover>h2+button:hover{background:var(--color-neutral-background-hover,var(--rc-surface))}\n.rc-popover p{margin:8px 0;white-space:pre-wrap}\n.rc-media{position:fixed;inset:0;padding:12px;z-index:2147483647;display:flex;align-items:center;justify-content:center;background:#000c;color:#edf1f3}\n.rc-media-box{max-width:calc(100vw - 24px);max-height:calc(100dvh - 24px);overflow:auto;background:#181c1f;border-radius:8px;padding:12px}\n.rc-media-stage{overflow:auto;max-height:calc(100dvh - 140px);max-width:100%}\n.rc-media img{display:block;max-width:100%;max-height:calc(100dvh - 150px);object-fit:contain}\n.rc-media-toolbar{display:flex;flex-wrap:wrap;gap:5px;margin-bottom:8px}\n.rc-media button{background:#20272b;color:#edf1f3}\n.rc-error{color:#a51e22}\n@media(prefers-color-scheme:dark){.rc-error{color:#ffaaa6}}\n@media(max-width:600px){[data-rc-layout]{translate:0 0}.rc-pagebar{margin:4px 0}.rc-tools{gap:3px}}\n@media(pointer:coarse){[data-rc-owned] :is(button,input,select){min-height:36px}.rc-tools[data-rc-header-actions] .rc-action-items :is(button,a){min-height:44px}}\n/* Subtle motion: one short exponential ease-out per change, interruptible, and absent under reduced motion. */\n@media(prefers-reduced-motion:no-preference){\n.rc-rail-handle .rc-icon{transition:rotate .18s cubic-bezier(.16,1,.3,1)}\n.rc-tools[data-rc-header-actions] .rc-action-items{transition:opacity .14s cubic-bezier(.16,1,.3,1),translate .14s cubic-bezier(.16,1,.3,1)}\n@starting-style{.rc-tools[data-rc-header-actions] .rc-action-items:popover-open{opacity:0;translate:0 -4px}}\n[data-rc-compact-media-open]>[slot=\"post-media-container\"]{transition:opacity .18s cubic-bezier(.16,1,.3,1),translate .18s cubic-bezier(.16,1,.3,1)}\n@starting-style{[data-rc-compact-media-open]>[slot=\"post-media-container\"]{opacity:0;translate:0 -6px}}\n}\n@media(prefers-reduced-motion:reduce){[data-rc-owned],[data-rc-owned] *{scroll-behavior:auto!important;transition:none!important;animation:none!important}}\n\n.rc-pagebar[data-rc-inline][data-rc-page-type=\"comments\"] select{field-sizing:content}\n\n[data-rc-new-body]{box-shadow:inset 2px 0 0 var(--rc-blue,#1768b5);padding-inline-start:8px}\n.rc-person{display:inline-block;flex:0 0 auto;margin-inline-start:6px;padding:0 6px;border-radius:4px;background:var(--color-neutral-background-hover,var(--rc-surface));color:var(--color-neutral-content-weak,inherit);font-size:12px;font-weight:400;line-height:18px;white-space:nowrap;max-width:24ch;overflow:hidden;text-overflow:ellipsis;vertical-align:middle}\n.rc-float-nav{position:fixed;right:16px;bottom:122px;z-index:20;display:flex;flex-direction:column;gap:6px}\n.rc-float-nav[data-rc-lone]{bottom:80px}\n.rc-float-nav[hidden]{display:none}\n.rc-float-nav button{display:flex;align-items:center;justify-content:center;width:40px;height:34px;padding:0;border:1px solid var(--rc-line);border-radius:6px;background:var(--rc-bg);color:var(--rc-text);cursor:pointer}\n.rc-float-nav .rc-icon{width:16px;height:16px;fill:none;stroke:currentColor;stroke-width:2;stroke-linecap:round;stroke-linejoin:round}\n.rc-float-nav [data-rc-icon=\"up\"] .rc-icon{rotate:180deg}\n.rc-media video{display:block;max-width:100%;max-height:calc(100dvh - 150px);background:#000}\n.rc-media iframe{display:block;border:0;width:min(960px,calc(100vw - 48px));aspect-ratio:16/9;max-height:calc(100dvh - 150px);background:#000}\n.rc-media button[hidden]{display:none}\n.rc-media button:disabled{opacity:.45}\n"};
 // Original local reading model. Copyright expDARE.
 RC.Model=(()=>{
   const PREFIX='exp:v1:thread:';

diff --git a/CHANGELOG.md b/CHANGELOG.md
@@ -1,3 +1,8 @@
+## 0.6.2 — 2026-11-14
+
+- Built on Core 3.17.2: WARD shows its new green gem beside Thread in the shared launcher.
+- Nothing changes in Thread itself.
+
 ## 0.6.1 — 2026-11-13
 
 - Release notes show in full in the changelog card.
